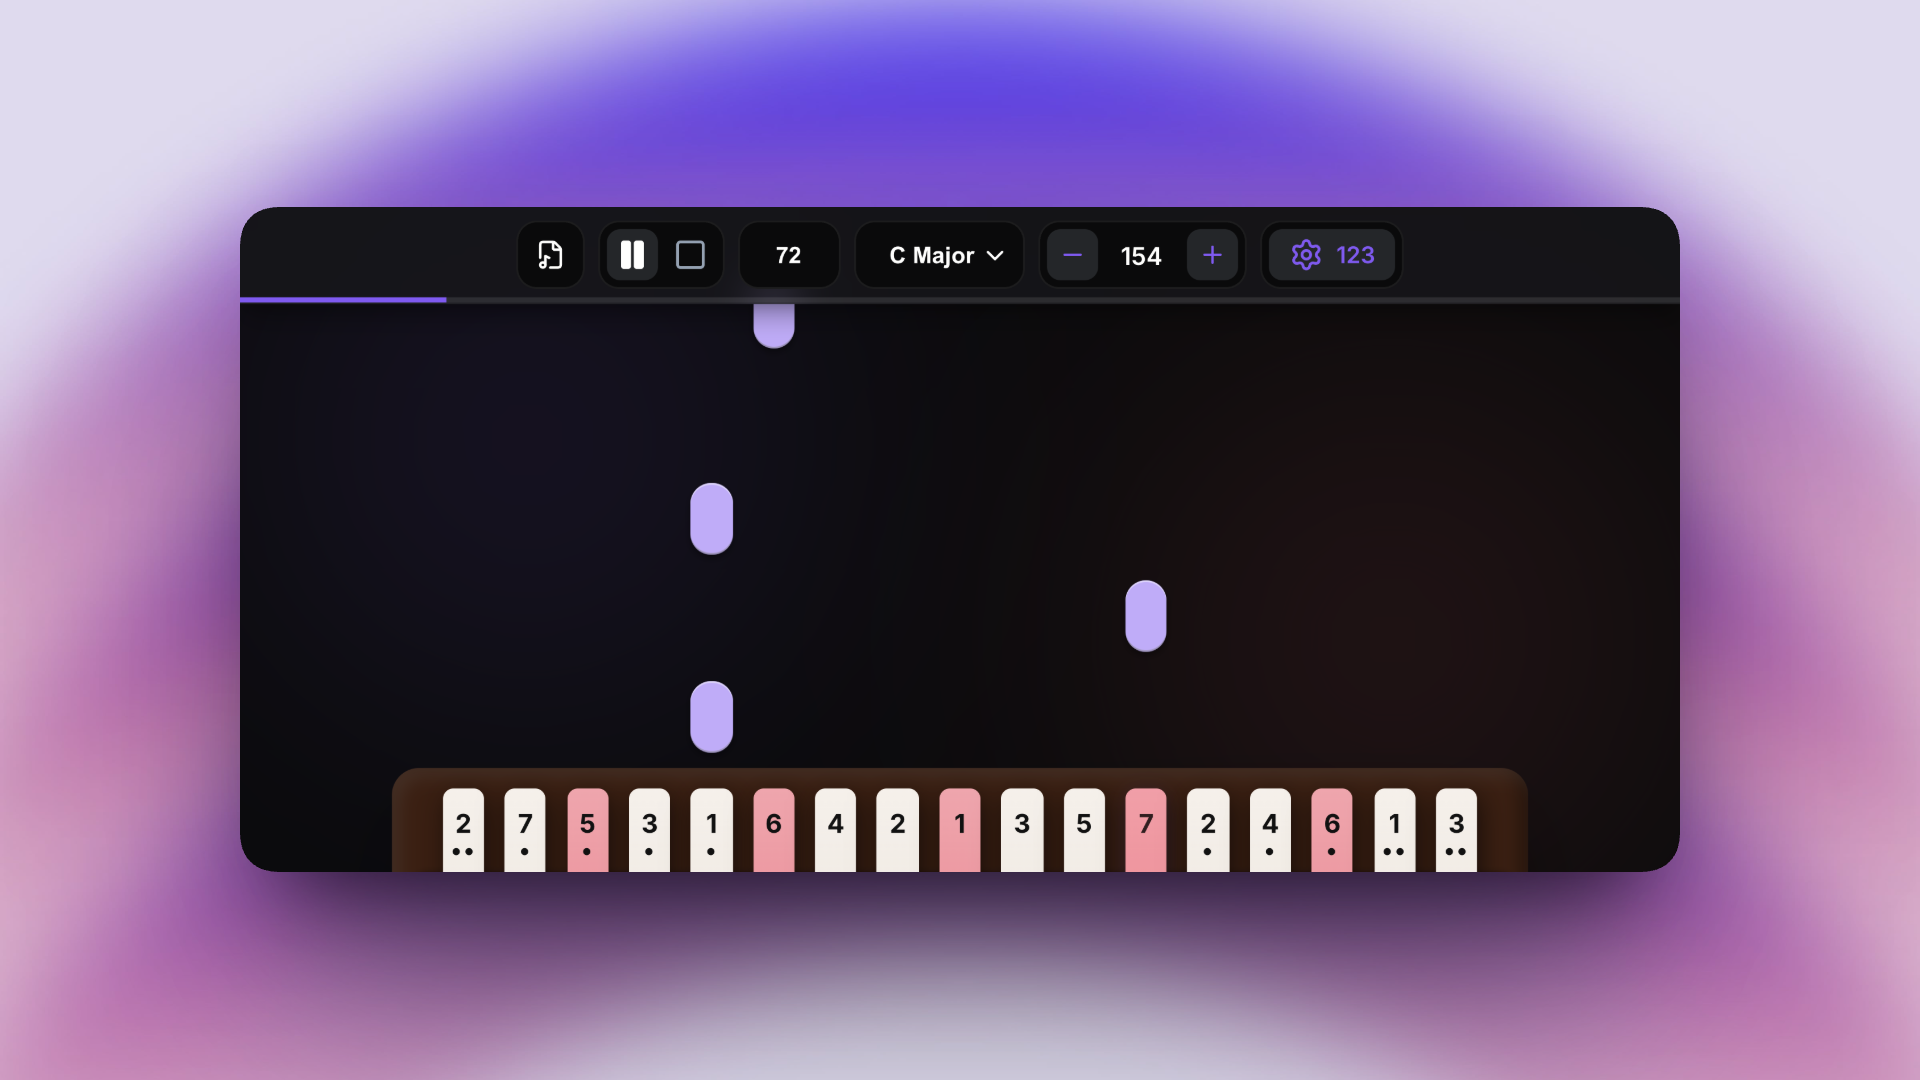
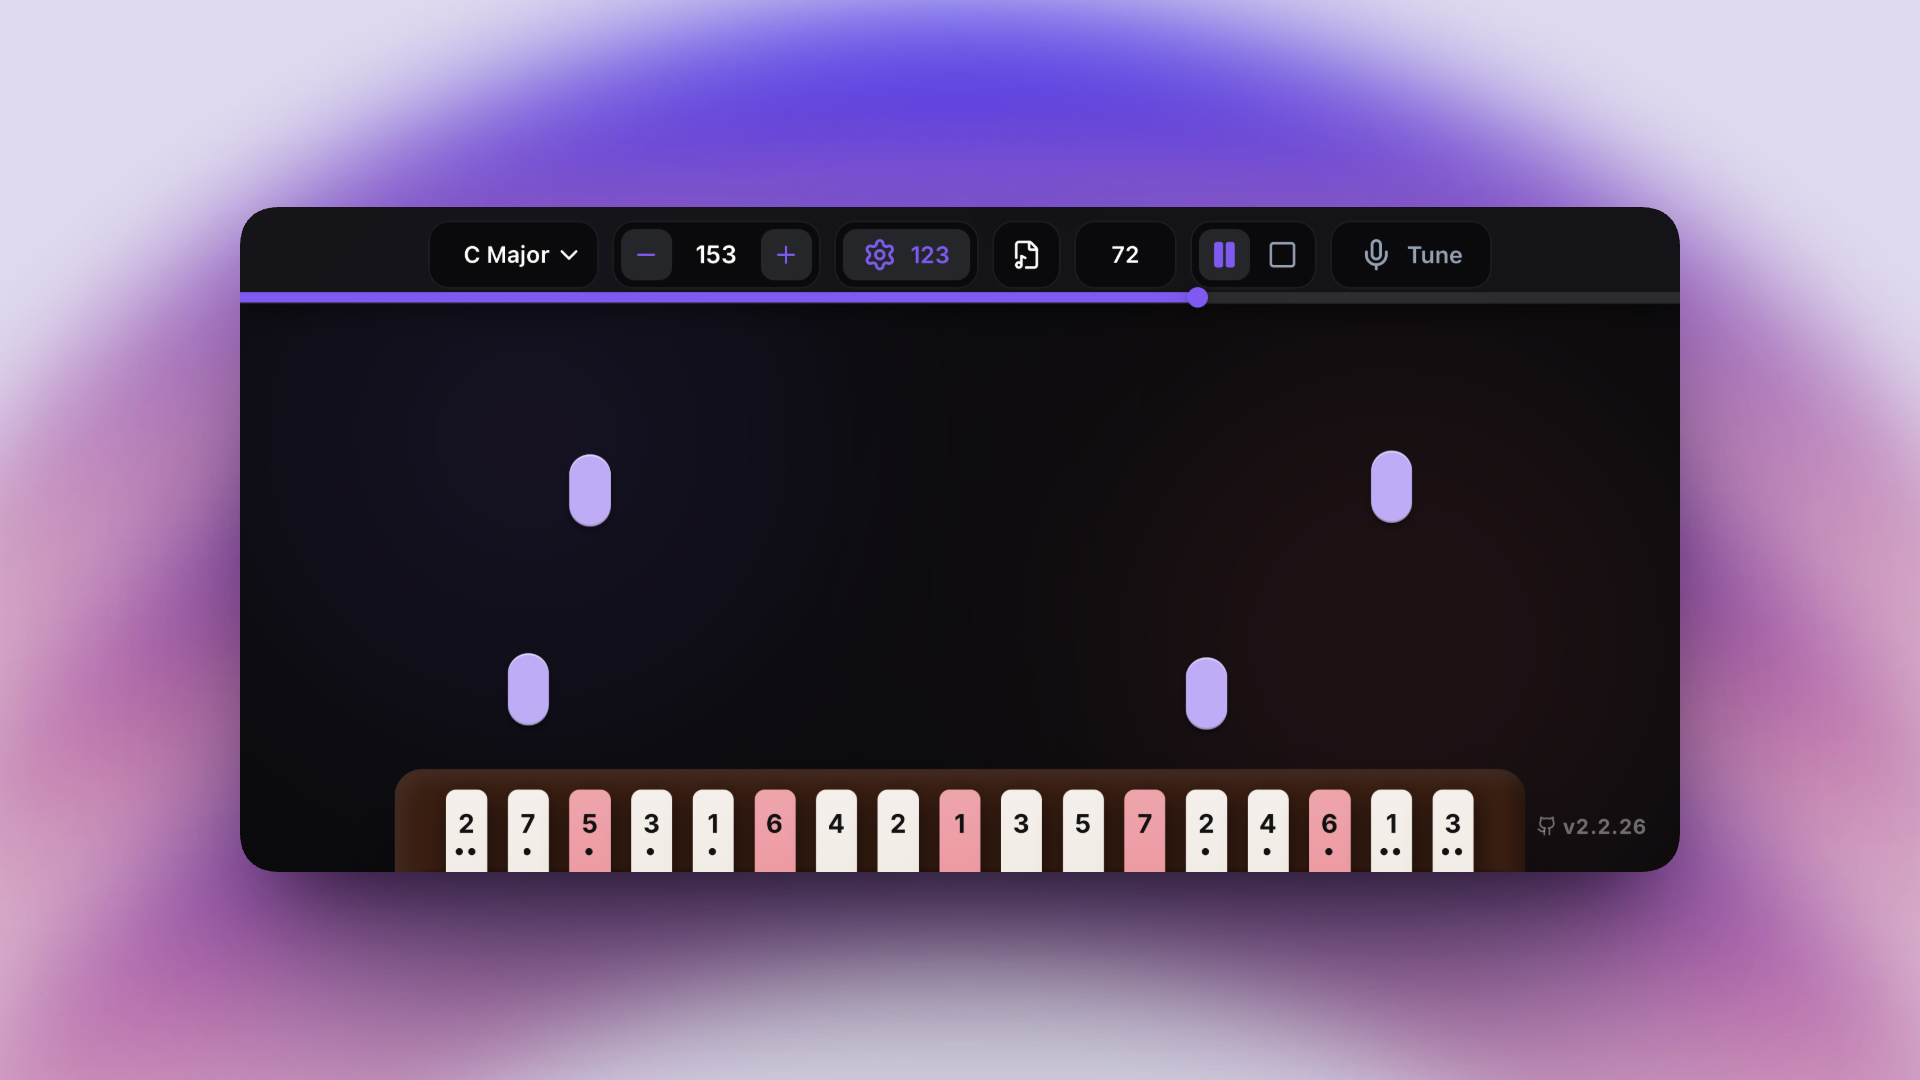
docs: add tuning screenshot and tuner feature to README

diff --git a/README.md b/README.md
@@ -1,6 +1,6 @@
 # Kalimba Tiles
 
-Welcome to Kalimba Tiles, your go-to app for practicing and mastering the enchanting melodies of the kalimba. Whether you're a beginner or an experienced player, this app is meticulously crafted to enhance your Kalimba learning experience.
+Welcome to Kalimba Tiles, your go-to app for **playing and tuning** the kalimba. Whether you're a beginner or an experienced player, this app is meticulously crafted to enhance your Kalimba learning experience.
 
 Recently modernized into a robust React/Vite application, Kalimba Tiles features beautiful glowing aesthetics, perfect mathematical visual synchronization, and device-independent scaling logic. 
 
@@ -12,10 +12,13 @@ Recently modernized into a robust React/Vite application, Kalimba Tiles features
 4. **Z-Index Waterfall Physics & 3D Stacking**: Notes slide and despawn gracefully *underneath* the metal Kalimba tines, and feature 3D-beveled visual stacking when rapid notes overlap.
 5. **Interactive YouTube-Style Scrubber**: A minimal dynamic loading bar gives you flawless timeline traversal. Skip through dense massive MIDI tracks and it automatically mutes audio loops and cleans the screen without glitching.
 6. **Tempo, Tuning, & Controls**: Adjust the learning speed dynamically, toggle note numbers/dots, choose flat/sharp alternate tunings for the layout, and experience automatic pause/loop functionality effortlessly.
+7. **Chromatic Tuner**: Tap any key in tuning mode to tune it by ear using your device microphone. A floating arrow badge shows whether to tune up or down, and each key retains a persistent color (green = in tune, orange = sharp, red = flat) so you can see your full tuning progress at a glance.
 
-## Screenshot
+## Screenshots
 
-![Main Interface](screenshots/main.png?raw=true&v=2.2.5) 
+| Playing Mode | Tuning Mode |
+|---|---|
+| ![Main Interface](screenshots/main.png?raw=true) | ![Tuning Mode](screenshots/tuning.png?raw=true) |
 
 ## Local Development
 
